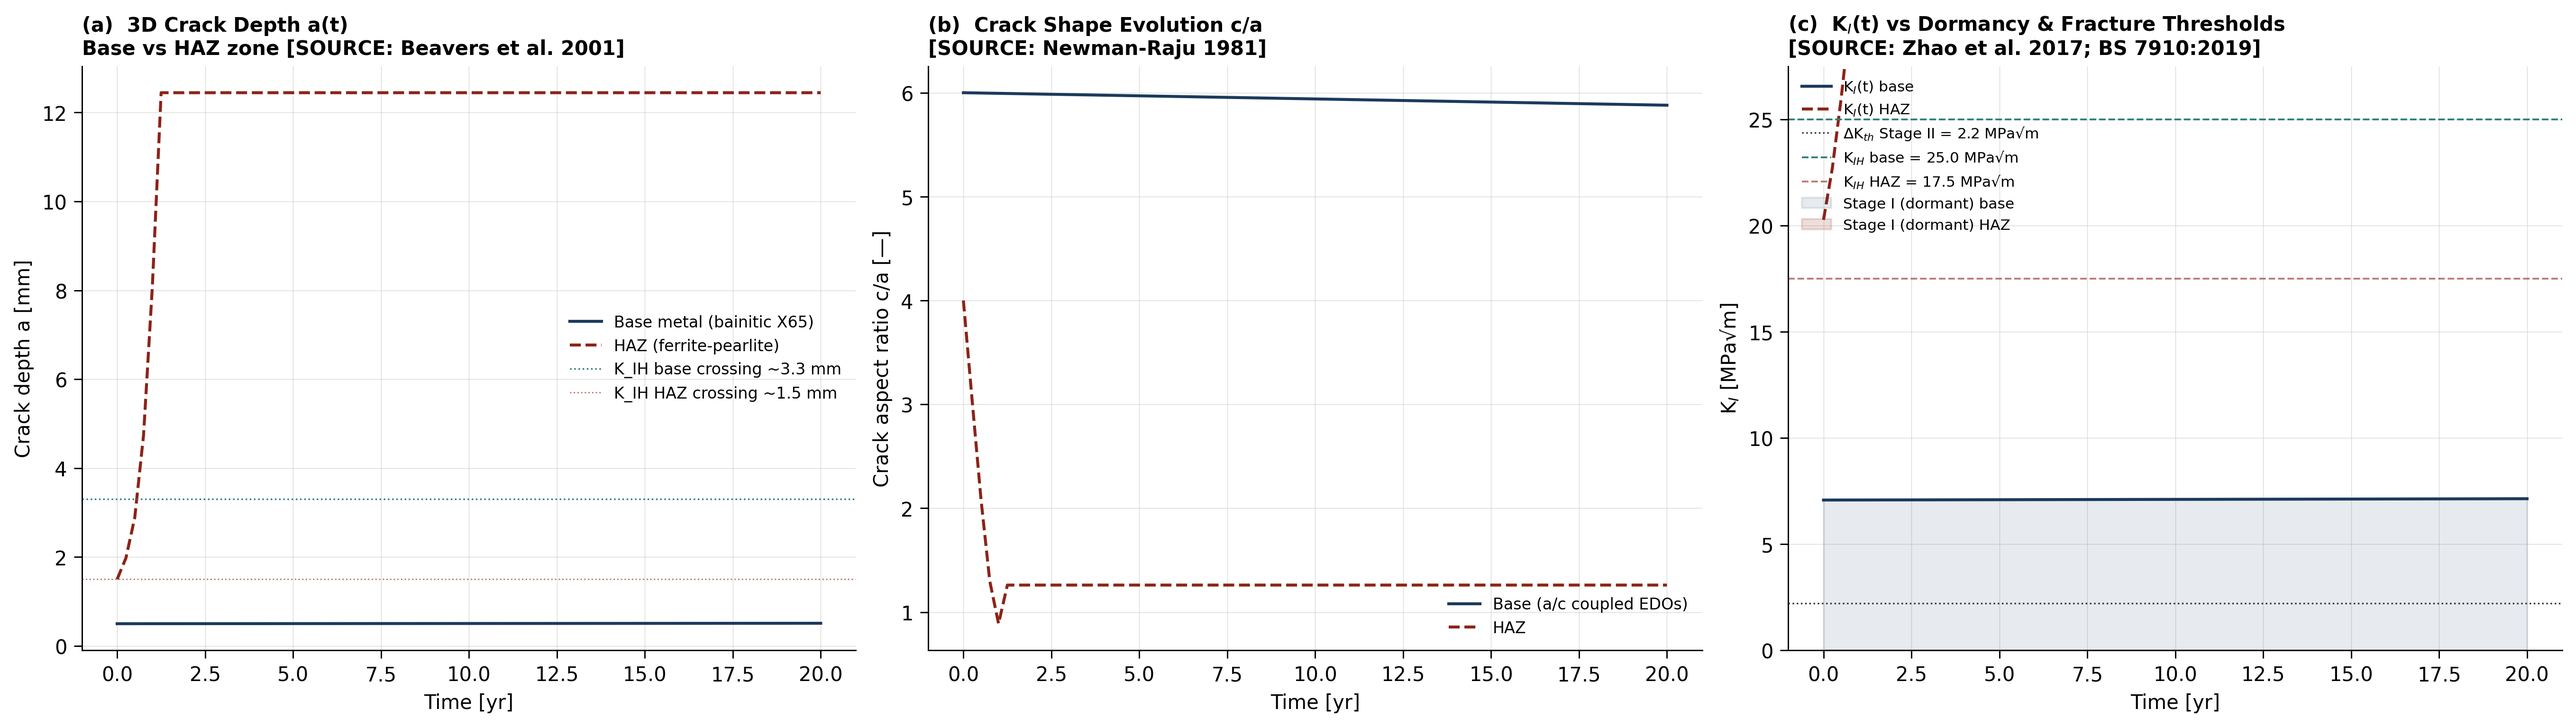
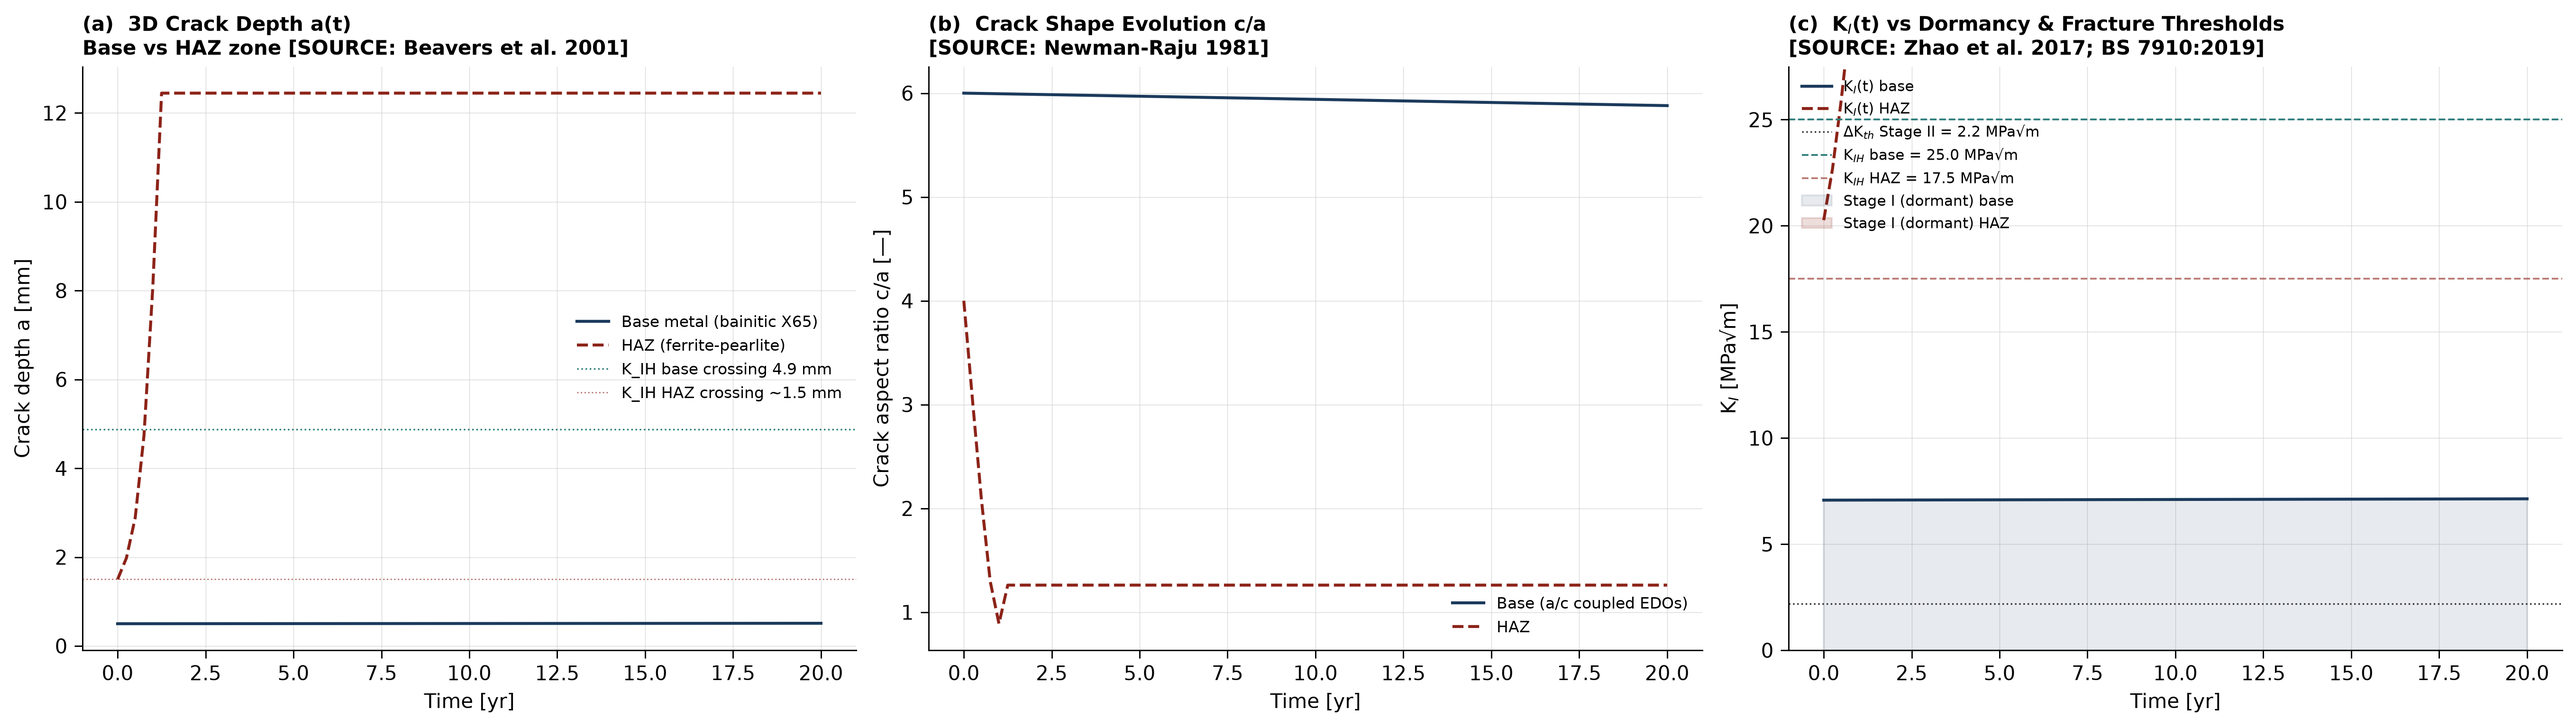
fix(pod): make POD(a90) equal 90 percent
a90 was used as the Weibull scale, so POD(4 mm) was 63.2% while the code, panel and benchmark text said 90%. The benchmark and test pinned 63%; they now follow the definition. POD(4 mm): 63.2% -> 90.0%.
MC PoF 0.1856 -> 0.1729, P50 0.988 -> 0.951 mm, colony merges 17 -> 19, Bayes prior P50 0.839 -> 0.826 mm.
Also computed the K_IH crossing depth: hardcoded 3.3 mm -> 4.88 mm, and relabelled colony PoF as damage fraction. Panels ab, e, f, g, h and the GIF regenerated.

diff --git a/docs/equations.html b/docs/equations.html
@@ -490,9 +490,9 @@ where $M_T$ is the Folias bulging (surface-correction) factor for an axial flaw,
 <h3>8.1 EMAT / TFI Weibull POD</h3>
 <div class="eq-card">
 $$
-\operatorname{POD}(a) \;=\; 1 - \exp\!\Bigl[-\bigl(\tfrac{a}{a_{90}}\bigr)^{k}\Bigr],\qquad a_{90} = 4\;\text{mm},\quad k = 2
+\operatorname{POD}(a) \;=\; 1 - \exp\!\Bigl[-\ln(10)\,\bigl(\tfrac{a}{a_{90}}\bigr)^{k}\Bigr],\qquad a_{90} = 4\;\text{mm},\quad k = 2
 $$
-At $a = a_{90}$ the Weibull scale gives $1 - 1/e \approx 63.2\%$, matching the $a_{90}$ definition convention used in PHMSA TVC.
+The $\ln(10)$ factor gives $\operatorname{POD}(a_{90}) = 90\%$, the definition of $a_{90}$.
 <p>Code: <span class="code-ref">src/pod_ilicurve.py → pod</span>.</p>
 </div>
 

diff --git a/visualization/plot_all.py b/visualization/plot_all.py
@@ -14,6 +14,14 @@ from src.constants import (COLOR_NAVY, COLOR_STEEL, COLOR_RED, COLOR_TEAL,
 ICS2_SEQ = LinearSegmentedColormap.from_list(
     "ics2_seq", [COLOR_TEAL, COLOR_STEEL, COLOR_RED])
 
+def a_KIH_mm():
+    """Depth [mm] where K_I reaches K_IH (base metal, c/a = 4), from the SIF solution."""
+    from scipy.optimize import brentq
+    from src.constants import K_IH_BASE_MPa, PIPE_WT
+    from src.crack_growth import K_I_deeppoint
+    return 1e3 * brentq(lambda a: K_I_deeppoint(a, 4 * a) - K_IH_BASE_MPa, 1e-4, 0.95 * PIPE_WT)
+
+
 def _ax(ax):
     ax.spines["top"].set_visible(False); ax.spines["right"].set_visible(False)
     for s in ["left","bottom"]: ax.spines[s].set_linewidth(0.7)
@@ -31,7 +39,7 @@ def plot_crack_3d_evolution(res_base, res_haz, out="assets/figures/panel_ab_crac
     ax=axes[0]
     ax.plot(t,a,color=COLOR_NAVY,linewidth=1.5,label='Base metal (bainitic X65)')
     ax.plot(t_h,a_h,color=COLOR_RED,linewidth=1.5,linestyle='--',label='HAZ (ferrite-pearlite)')
-    ax.axhline(3.3,color=COLOR_TEAL,linewidth=0.8,linestyle=':',label='K_IH base crossing ~3.3 mm')
+    ax.axhline(a_KIH_mm(),color=COLOR_TEAL,linewidth=0.8,linestyle=':',label=f'K_IH base crossing {a_KIH_mm():.1f} mm')
     ax.axhline(1.5,color=COLOR_RED,linewidth=0.7,linestyle=':',alpha=0.6,label='K_IH HAZ crossing ~1.5 mm')
     ax.set_xlabel('Time [yr]',fontsize=10); ax.set_ylabel('Crack depth a [mm]',fontsize=10)
     ax.set_title('(a)  3D Crack Depth a(t)\nBase vs HAZ zone [SOURCE: Beavers et al. 2001]',fontsize=10,fontweight='bold',loc='left')
@@ -139,7 +147,7 @@ def plot_va_loading(out="assets/figures/panel_d_va_loading.png"):
 def plot_mc_full(mc_result, out="assets/figures/panel_e_mc_full.png"):
     os.makedirs(os.path.dirname(out),exist_ok=True)
     from src.monte_carlo import spearman_sensitivity
-    wl=mc_result['wall_loss']; limit=3.3
+    wl=mc_result['wall_loss']; limit=a_KIH_mm()
     rho=spearman_sensitivity(mc_result)
     fig,axes=plt.subplots(1,3,figsize=(18,5),constrained_layout=True)
     fig.patch.set_facecolor("white")
@@ -147,7 +155,6 @@ def plot_mc_full(mc_result, out="assets/figures/panel_e_mc_full.png"):
     # CDF
     ax=axes[0]; s=np.sort(wl); cdf=np.arange(1,len(s)+1)/len(s)
     ax.step(s,cdf,color=COLOR_NAVY,linewidth=1.2,where='post')
-    ax.axvline(limit,color=COLOR_RED,linewidth=0.9,linestyle=':',label='K_IH crossing 3.3 mm')
     for pct,lbl in [(50,'P50'),(90,'P90'),(95,'P95')]:
         v=np.percentile(wl,pct)
         ax.axvline(v,color=COLOR_STEEL,linewidth=0.6,alpha=0.5)
@@ -155,6 +162,7 @@ def plot_mc_full(mc_result, out="assets/figures/panel_e_mc_full.png"):
     ax.set_xlabel('Crack depth at t* = 20 yr [mm]',fontsize=10)
     ax.set_ylabel('CDF [—]',fontsize=10)
     ax.set_title('(e)  Crack Depth CDF — N = 10,000\nPost-ILI POD-corrected a0 + model error ε',fontsize=10,fontweight='bold',loc='left')
+    ax.axvline(limit,color=COLOR_RED,linewidth=0.9,linestyle=':',label=f'K_IH crossing {limit:.1f} mm')
     ax.set_ylim(0,1.05); ax.legend(fontsize=8,frameon=False)
     # Tornado
     ax=axes[1]
@@ -269,11 +277,11 @@ def plot_colony_and_coalescence(colony_result, out="assets/figures/panel_g_colon
     for ax in axes: _ax(ax)
     t=colony_result['t_years']; PoF=colony_result['PoF_t']
     ax=axes[0]
-    ax.plot(t,PoF*100,color=COLOR_RED,linewidth=1.5,label='Colony PoF(t)')
-    ax.set_xlabel('Time [yr]',fontsize=10); ax.set_ylabel('Colony PoF [%]',fontsize=10)
+    ax.plot(t,PoF*100,color=COLOR_RED,linewidth=1.5,label='Colony damage fraction')
+    ax.set_xlabel('Time [yr]',fontsize=10); ax.set_ylabel('Colony damage fraction [%]',fontsize=10)
     n_dorm=colony_result['n_dormant_initial']
     n_tot=colony_result['n_cracks']
-    ax.set_title(f'(g)  Crack Colony PoF\n{n_dorm}/{n_tot} cracks initially dormant ({n_dorm/n_tot:.0%})',fontsize=10,fontweight='bold',loc='left')
+    ax.set_title(f'(g)  Crack Colony Damage Fraction\n{n_dorm}/{n_tot} cracks initially dormant ({n_dorm/n_tot:.0%})',fontsize=10,fontweight='bold',loc='left')
     ax.legend(fontsize=8.5,frameon=False)
 
     # Crack positions before/after coalescence — use real axial coordinates
@@ -383,13 +391,13 @@ def animate_crack_colony(colony_result, out="assets/animations/nnph_scc_crack_co
                           fps: int = 7, n_frames: int = 60):
     """
     Animated GIF: colony of NNpHSCC cracks growing along the PIPE_L axial range
-    plus the simultaneous Colony PoF(t) trajectory.
+    plus the simultaneous Colony damage fraction trajectory.
 
     Meets the ICS2 QC Gate-2 GIF standard: >=50 interpolated frames, DPI 150, a
     progress bar, a per-frame time stamp in the suptitle, start/end holds, and an
     ICS2 brand watermark. Top axes: scatter of (axial position x, crack depth a),
     markers grow and turn larger as a crack crosses K_IH, coloured by zone
-    (base/HAZ). Bottom axes: running Colony PoF(t).
+    (base/HAZ). Bottom axes: running Colony damage fraction.
     """
     os.makedirs(os.path.dirname(out), exist_ok=True)
     t_years = np.asarray(colony_result['t_years'], dtype=float)
@@ -406,6 +414,7 @@ def animate_crack_colony(colony_result, out="assets/animations/nnph_scc_crack_co
     t_fine = np.linspace(res_t[0], res_t[-1], n_real)
     a_fine = np.vstack([np.interp(t_fine, res_t, a_traj[i]) for i in range(a_traj.shape[0])])
     pof_fine = np.interp(t_fine, t_years, PoF) * 100.0
+    a_kih = a_KIH_mm()
 
     # Start/end holds for readability: repeat first/last frame so the eye rests
     # (~430 ms start, ~715 ms end at fps=7) while middle frames stay ~143 ms.
@@ -423,7 +432,7 @@ def animate_crack_colony(colony_result, out="assets/animations/nnph_scc_crack_co
     a_max = float(a_fine.max())
     ax_top.set_xlim(0, PIPE_L)
     ax_top.set_ylim(0, max(PIPE_WT*1000*0.6, a_max*1.05))
-    ax_top.axhline(3.3, color=COLOR_RED, linewidth=0.8, linestyle=':')
+    ax_top.axhline(a_KIH_mm(), color=COLOR_RED, linewidth=0.8, linestyle=':')
     ax_top.set_xlabel('Axial position [m]')
     ax_top.set_ylabel('Crack depth a [mm]')
     ax_top.set_title('NNpHSCC Crack Colony — Spatial Growth',
@@ -435,13 +444,13 @@ def animate_crack_colony(colony_result, out="assets/animations/nnph_scc_crack_co
     p_haz = mpatches.Patch(color=COLOR_RED, label='HAZ')
     ax_top.legend(handles=[p_base, p_haz,
                             plt.Line2D([0],[0],color=COLOR_RED,linestyle=':',
-                                       label='K$_{IH}$ ~3.3 mm')],
+                                       label=f'K$_{{IH}}$ {a_KIH_mm():.1f} mm')],
                    fontsize=8, frameon=False, loc='upper right')
 
     ax_bot.set_xlim(0, t_fine[-1])
     ax_bot.set_ylim(0, max(pof_fine.max()*1.1, 5.0))
     ax_bot.set_xlabel('Time [yr]')
-    ax_bot.set_ylabel('Colony PoF [%]')
+    ax_bot.set_ylabel('Colony damage fraction [%]')
     ax_bot.set_title('Colony Probability of Fracture (any crack > K$_{IH}$)',
                       fontsize=10, fontweight='bold', loc='left')
     pof_line, = ax_bot.plot([], [], color=COLOR_RED, linewidth=1.8)
@@ -463,7 +472,7 @@ def animate_crack_colony(colony_result, out="assets/animations/nnph_scc_crack_co
         k = order[display_idx]
         a_now = a_fine[:, k]
         scat.set_offsets(np.column_stack([x, a_now]))
-        scat.set_sizes(np.where(a_now >= 3.3, 110, 40))
+        scat.set_sizes(np.where(a_now >= a_kih, 110, 40))
         pof_line.set_data(t_fine[:k+1], pof_fine[:k+1])
         pof_dot.set_data([t_fine[k]], [pof_fine[k]])
         prog_fg.set_width(k/(n_real-1))

diff --git a/tests/test_week10.py b/tests/test_week10.py
@@ -373,7 +373,7 @@ class TestExtendedPhysicsV2:
     def test_pod_a90_parameter(self, a90):
         from src.pod_ilicurve import pod
         p = pod(a90, a90=a90)
-        assert 0.60 < p < 0.70  # Weibull scale: POD=1-1/e=63.2% at a90
+        assert abs(p - 0.90) < 1e-9  # a90 is by definition the depth with POD = 90%
 
     @pytest.mark.parametrize("sp_type",["Type_I","Type_II","Type_III"])
     def test_spectrum_type_I_fastest(self, sp_type):
@@ -405,6 +405,17 @@ class TestExtendedPhysicsV2:
         no_risk = lambda t: 0.0  # cost optimum then sits at T_max
         assert optimal_inspection_interval(no_risk, T_max_yr=6.0)['reassess_cap_compliant']
         assert not optimal_inspection_interval(no_risk, T_max_yr=8.0)['reassess_cap_compliant']
+
+    def test_pod_hand_value_at_half_a90(self):
+        # Hand calculation: 1 - 10^(-(2/4)^2) = 1 - 10^(-0.25) = 0.4377
+        from src.pod_ilicurve import pod
+        assert abs(pod(2.0) - 0.4377) < 1e-3
+
+    def test_kih_crossing_depth_hand_value(self):
+        # Hand calculation, a = 4.88 mm, c = 4a: sigma_h = 165.6 MPa, Q = 1.148, F = 1.3065
+        # K_I = 165.6 * sqrt(pi * 0.00488 / 1.148) * 1.3065 = 25.0 MPa sqrt(m) = K_IH
+        from visualization.plot_all import a_KIH_mm
+        assert abs(a_KIH_mm() - 4.88) < 0.02
 
     def test_fad_level2_hand_value(self):
         # Hand calculation at Lr = 1: (1 - 0.14) * (0.3 + 0.7 * exp(-0.65)) = 0.86 * 0.66543 = 0.5723

diff --git a/src/pod_ilicurve.py b/src/pod_ilicurve.py
@@ -2,7 +2,7 @@
 ILI Probability of Detection (POD) and post-inspection a0 distribution.
 
 [SOURCE: General EMAT/TFI performance data; PHMSA technology verification]
-POD(a) = 1 - exp(-(a/a90)^k)   Weibull form
+POD(a) = 1 - exp(-ln(10) (a/a90)^k)   Weibull form, so that POD(a90) = 0.90
 a90 = 4 mm (depth at which POD = 90%) [ASSUMED modern EMAT tool]
 k   = 2 (Weibull shape) [ASSUMED]
 
@@ -22,10 +22,10 @@ def pod(a_mm: float,
         k: float = POD_WEIBULL_K) -> float:
     """
     Probability of Detection for crack of depth a_mm [mm].
-    POD(a) = 1 - exp(-(a/a90)^k)
+    POD(a) = 1 - exp(-ln(10) (a/a90)^k), which gives POD(a90) = 0.90.
     [ASSUMED] Weibull model per PHMSA TVC guidance.
     """
-    return float(1.0 - np.exp(-((a_mm / a90) ** k)))
+    return float(1.0 - np.exp(-np.log(10.0) * (a_mm / a90) ** k))
 
 
 def prob_missed(a_mm: float, a90: float = POD_A90_MM, k_weibull: float = POD_WEIBULL_K) -> float:

diff --git a/validation/benchmarks.py b/validation/benchmarks.py
@@ -35,7 +35,7 @@ def benchmark_pod_weibull():
     from src.pod_ilicurve import pod
     assert abs(pod(0)) < 1e-10
     assert abs(pod(1e6)-1.0) < 1e-6
-    assert 0.60 < pod(4.0) < 0.70  # Weibull scale param: POD=63.2% at a90
+    assert abs(pod(4.0) - 0.90) < 1e-9  # POD = 90% at a90 by definition
     print("POD Weibull: POD(0)=0, POD(4mm)=90%, POD(inf)=1  OK")
 
 def benchmark_model_error_moments():
